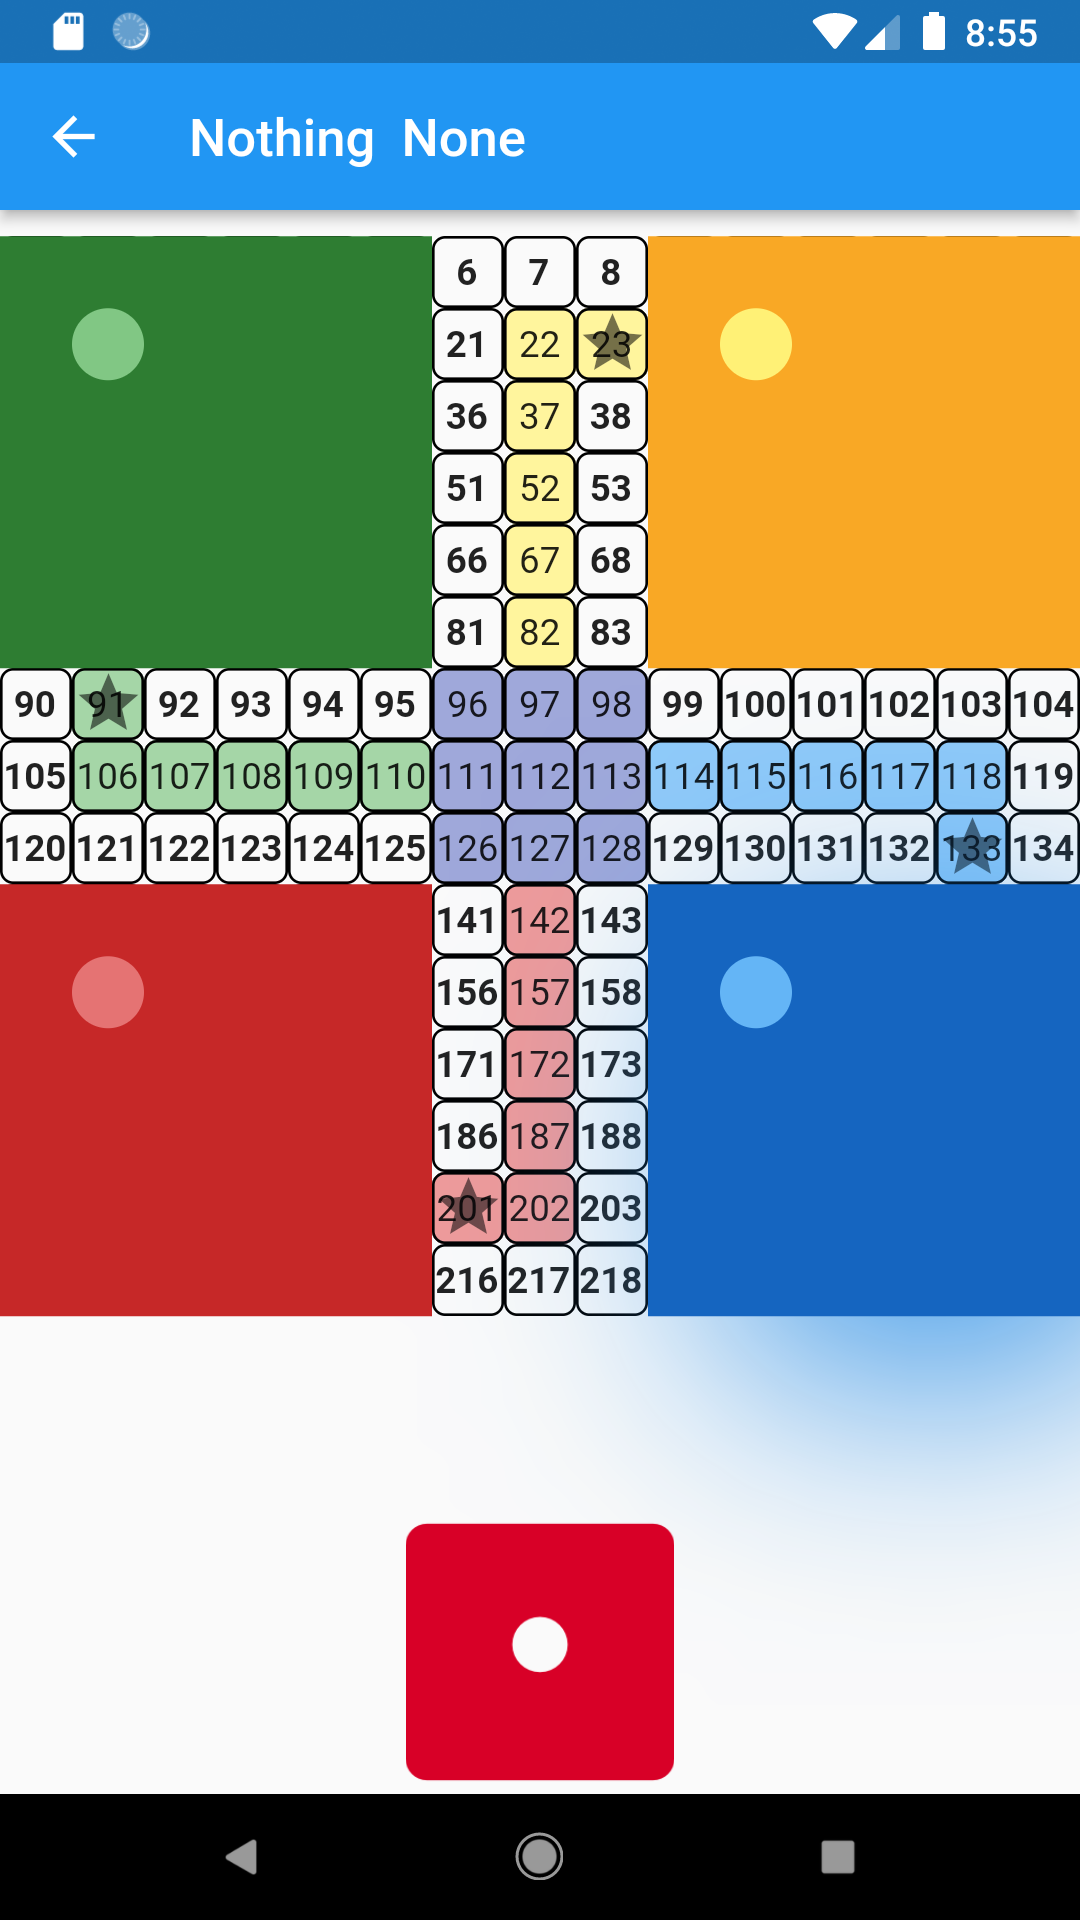
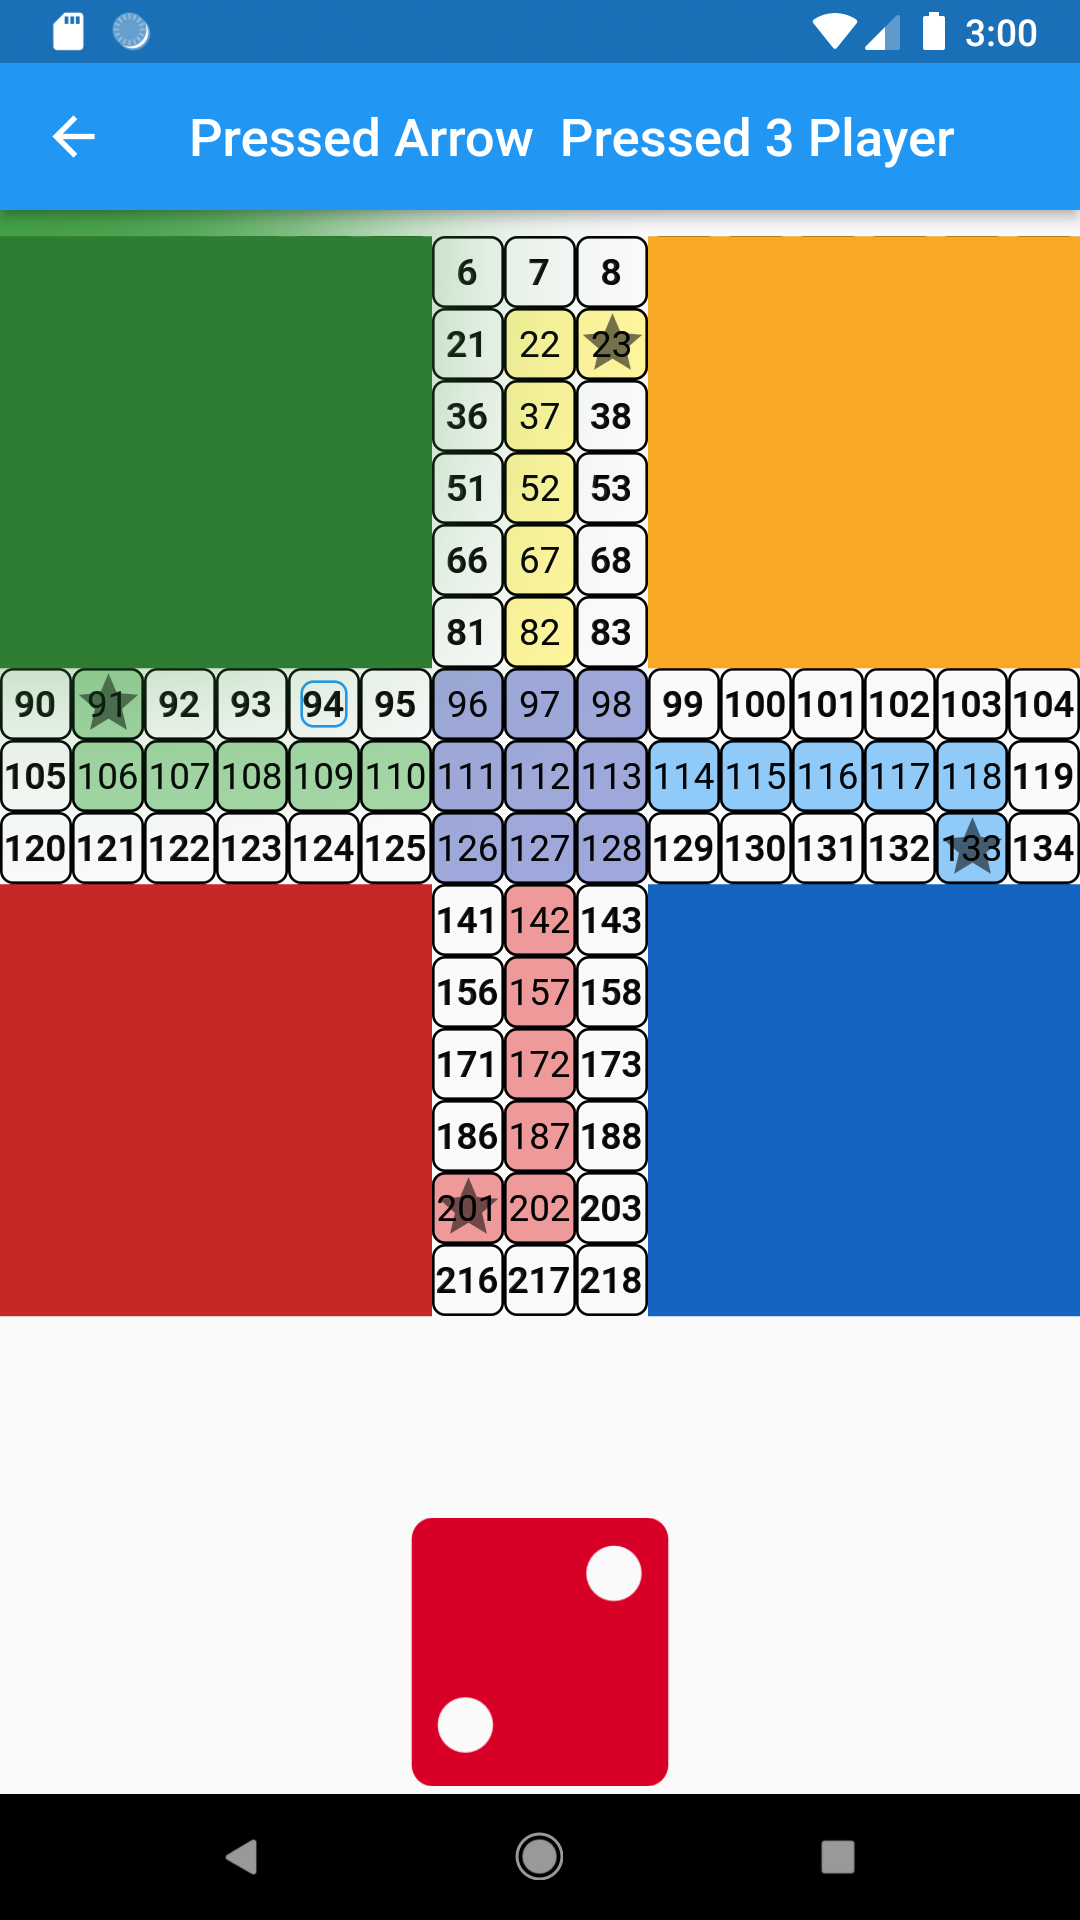
identify position

diff --git a/ludo/lib/ludo_board.dart b/ludo/lib/ludo_board.dart
@@ -379,7 +379,26 @@ class _LudoBoardState extends State<LudoBoard> {
                                               ),
                                             )
                                           : Container(),
+                                    ),
+                                    Center(
+                                      child: Tile(
+                                        index: index,
+                                        accessedCell: greenPiecePath[3],
+                                      ),
                                     )
+
+                                    // greenPiecePath.map((e) => Tile(index: e)).toList(),
+                                    // greenPiecePath
+                                    //     .map((13) => Tile(
+                                    //           index: 13,
+                                    //         ))
+                                    //     .toList(),
+
+                                    // greenPiecePath.elementAt(13),
+                                    // Container(
+                                    //   child: greenPiecePath.elementAt(23),
+                                    //   color: Colors.amber,
+                                    // ),
                                   ],
                                 );
                               },
@@ -626,6 +645,42 @@ class _LudoBoardState extends State<LudoBoard> {
           ],
         ),
       ),
+    );
+  }
+}
+
+class Tile extends StatefulWidget {
+  Tile({
+    required this.index,
+    required this.accessedCell,
+    Key? key,
+  }) : super(key: key);
+
+  final int index;
+  final int accessedCell;
+
+  @override
+  State<Tile> createState() => _TileState();
+}
+
+class _TileState extends State<Tile> {
+  bool _isAccessed = false;
+
+  @override
+  Widget build(BuildContext context) {
+    if (widget.accessedCell == widget.index) {
+      _isAccessed = true;
+    }
+
+    return Container(
+      decoration: BoxDecoration(
+        //color: Colors.amber,
+        borderRadius: BorderRadius.circular(5),
+        border:
+            Border.all(color: _isAccessed ? Colors.blue : Colors.transparent),
+      ),
+      child:
+          FittedBox(fit: BoxFit.contain, child: Text(widget.index.toString())),
     );
   }
 }
